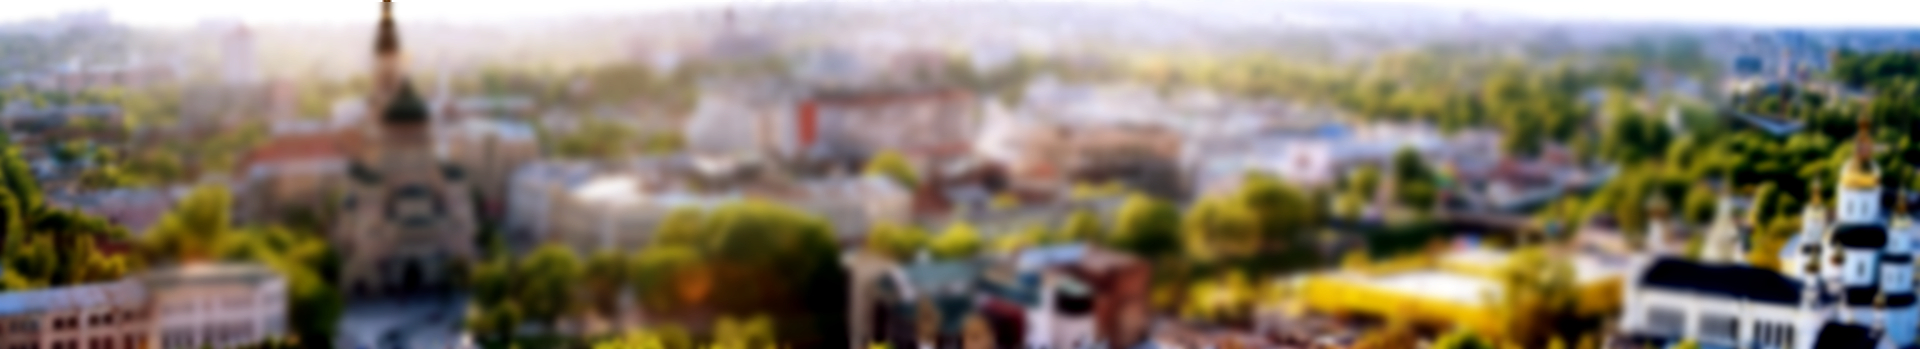
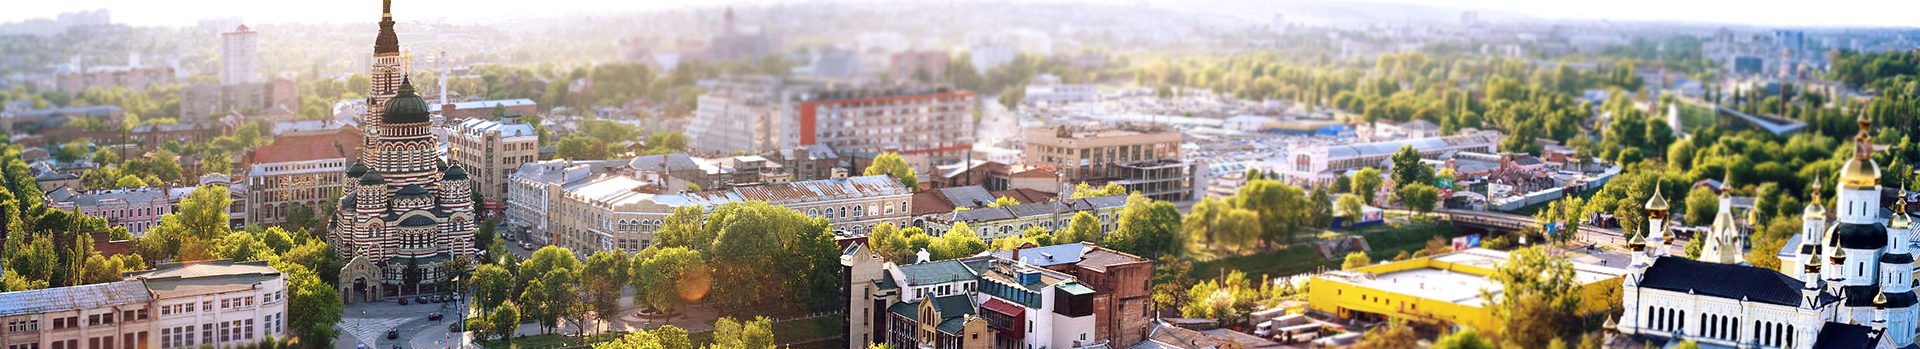
add hero image

diff --git a/css/style.css b/css/style.css
@@ -1,1 +1,1 @@
-*{box-sizing:border-box}body{background-color:#fefefe;font-family:Roboto;color:#444}.container{margin:auto;}@media only screen and (min-width:1200px){.container{padding:0 2em;width:1127px}}@media only screen and (min-width:992px) and (max-width:1200px){.container{padding:0 1.5em;width:933px}}@media only screen and (min-width:768px) and (max-width:991px){.container{padding:0 1em;width:723px}}@media only screen and (max-width:768px){.container{padding:0 1em;width:100%}}.menu-item.current-menu-item > a:after{background-color:#2185d0;width:100%}.menu{width:160px;list-style:none;padding:0;margin:0;}.menu-item{color:#2185d0;font-weight:400;list-style:none;letter-spacing:1px;text-align:right;position:relative;}.menu-item a{position:relative;padding:13px 0;color:inherit;text-decoration:none;display:block;font-size:14px;}.menu-item a:after{content:'';display:block;position:absolute;right:0;bottom:0;background-color:#a2cff0;width:30px;height:1px;transition:width 300ms ease-in-out,color 300ms ease-in-out}.menu-item a:hover:after{width:100%}.menu .sub-menu{z-index:1;display:none;width:200px;left:160px;padding:0 20px;top:0;position:absolute;list-style:none;margin:0;border-top-right-radius:5px;border-bottom-right-radius:5px;background-color:#fefefe;}.menu .sub-menu--upward{bottom:0;top:auto}.sub-menu .menu-item{text-align:left;border-left:none;}.sub-menu .menu-item-link{padding-left:20px;}.sub-menu .menu-item-link:after{display:none}.menu-item:hover > .sub-menu{display:block}.news{margin:0 30px;}.news-item{display:-webkit-box;display:-ms-flexbox;display:flex;cursor:pointer;text-decoration:none;color:inherit;margin-bottom:40px}.news-item:hover .news-header{color:#2185d0}.news-picture{width:200px;margin-right:20px;}.news-picture img{max-height:200px;max-width:200px}.news-header{margin:0 0 5px 0;line-height:1.3em;transition:color 250ms ease-in-out;font-size:20px}.news-excerpt{font-size:15px;line-height:1.3em;font-family:Roboto Slab}.news-date{font-size:12px;margin-top:5px;color:#2185d0}.post{padding:10px 25px;}.post-footer{border-top:1px solid #eee;margin-top:25px;padding:20px 0;text-align:right;color:#2185d0;font-size:14px}.post-header{text-align:center}.search-container{position:fixed;top:0;bottom:0;left:0;right:0;cursor:pointer;background-color:rgba(0,0,0,0.7);display:-webkit-box;display:-ms-flexbox;display:flex;-webkit-box-pack:center;-ms-flex-pack:center;justify-content:center;-webkit-box-align:center;-ms-flex-align:center;align-items:center;z-index:201;}.search-container>div{margin-top:-100px;max-width:760px;}@media only screen and (max-width:1000px){.search-container>div{max-width:90%}}.search-container *{cursor:auto}.search-container input[type="button"]{cursor:pointer}.gsc-control-cse .gsc-table-result{font-family:inherit}.gsc-control-cse .gsc-input-box{height:inherit}table.gsc-search-box td{vertical-align:inherit !important}input.gsc-input,.gsc-input-box,.gsc-input-box-hover,.gsc-input-box-focus,.gsc-search-button input.gsc-search-button-v2{box-sizing:content-box;line-height:normal;margin-top:0}input.gsc-input{height:2rem !important}td.gsib_a{padding:0 .5rem !important}td.gsc-search-button{position:relative}input.gsc-search-button-v2{height:1.3rem !important;width:1rem !important;padding:.7rem 2.5rem !important;margin-bottom:-.4rem}.gsc-input-box{height:2.5rem !important}.gsst_b{height:2.5rem !important;}.gsst_b .gsst_a{height:100% !important;display:-webkit-box;display:-ms-flexbox;display:flex;-webkit-box-align:center;-ms-flex-align:center;align-items:center;-webkit-box-pack:center;-ms-flex-pack:center;justify-content:center;padding-top:0}.hero{padding:50px 0;}.hero .container{display:-webkit-box;display:-ms-flexbox;display:flex;height:100%;-webkit-box-align:center;-ms-flex-align:center;align-items:center;-webkit-box-pack:justify;-ms-flex-pack:justify;justify-content:space-between}.hero-crest{height:190px;width:150px;background:url("../img/crest.png") center no-repeat;background-size:100%}.hero-text-sign,.hero-text-name{text-align:center;color:#2185d0}.hero-text-sign{font-size:45px;line-height:35px;letter-spacing:1px;font-family:Roboto Slab;font-weight:400;line-height:50px}.hero-text-name{margin-top:20px;line-height:25px;font-size:15px;font-weight:400}.hero-search{border:1px solid #2185d0;background-color:rgba(255,255,255,0.7);border-radius:4px;display:-webkit-box;display:-ms-flexbox;display:flex;-webkit-box-align:center;-ms-flex-align:center;align-items:center;padding:5px 10px;cursor:pointer;-webkit-user-select:none;-moz-user-select:none;-ms-user-select:none;user-select:none;}.hero-search-text{margin-right:10px;color:#2185d0}.hero-search-icon{color:#2185d0}.page .container{display:-webkit-box;display:-ms-flexbox;display:flex;-webkit-box-align:start;-ms-flex-align:start;align-items:flex-start}.page-content{-webkit-box-flex:1;-ms-flex:1;flex:1}.page-header{font-weight:500;font-family:Roboto;margin-top:0;color:#2185d0;letter-spacing:1px;font-size:20px;text-align:center;margin-bottom:20px}.sidebar{display:-webkit-box;display:-ms-flexbox;display:flex;-webkit-box-orient:vertical;-webkit-box-direction:normal;-ms-flex-direction:column;flex-direction:column;-webkit-box-align:center;-ms-flex-align:center;align-items:center;width:280px;}.sidebar-item{padding:10px 15px;cursor:pointer;border-bottom:1px solid #2185d0;width:100%;transition:background-color 300ms;padding-top:15px;padding-bottom:15px;}.sidebar-item a{display:-webkit-box;display:-ms-flexbox;display:flex;-webkit-box-align:center;-ms-flex-align:center;align-items:center;width:100%;text-decoration:none;color:inherit}.sidebar-item:last-child{border-bottom:0}.sidebar-item:hover{background-color:#f6fafe}.sidebar-item-name{color:inherit;font-size:15px;margin-left:10px;line-height:25px;width:170px;-webkit-box-flex:1;-ms-flex:1;flex:1}.sidebar-item-icon{background-position:center;background-repeat:no-repeat;background-size:contain;height:60px;width:60px;}.sidebar-item-icon--alone{width:100%}.slider{margin-bottom:50px;}.slider .owl-stage{cursor:-webkit-grab;cursor:grab}.slider-item{width:100%;background-position:top center;background-size:cover;background-repeat:no-repeat;-webkit-backface-visibility:hidden;-webkit-transform:translateZ(0) scale(1,1);height:350px;}@media only screen and (max-width:1200px){.slider-item{height:300px}}
+*{box-sizing:border-box}body{background-color:#fefefe;font-family:Roboto;color:#444}.container{margin:auto;}@media only screen and (min-width:1200px){.container{padding:0 2em;width:1127px}}@media only screen and (min-width:992px) and (max-width:1200px){.container{padding:0 1.5em;width:933px}}@media only screen and (min-width:768px) and (max-width:991px){.container{padding:0 1em;width:723px}}@media only screen and (max-width:768px){.container{padding:0 1em;width:100%}}.menu-item.current-menu-item > a:after{background-color:#2185d0;width:100%}.menu{width:160px;list-style:none;padding:0;margin:0;}.menu-item{color:#2185d0;font-weight:400;list-style:none;letter-spacing:1px;text-align:right;position:relative;}.menu-item a{position:relative;padding:13px 0;color:inherit;text-decoration:none;display:block;font-size:14px;}.menu-item a:after{content:'';display:block;position:absolute;right:0;bottom:0;background-color:#a2cff0;width:30px;height:1px;transition:width 300ms ease-in-out,color 300ms ease-in-out}.menu-item a:hover:after{width:100%}.menu .sub-menu{z-index:1;display:none;width:200px;left:160px;padding:0 20px;top:0;position:absolute;list-style:none;margin:0;border-top-right-radius:5px;border-bottom-right-radius:5px;background-color:#fefefe;}.menu .sub-menu--upward{bottom:0;top:auto}.sub-menu .menu-item{text-align:left;border-left:none;}.sub-menu .menu-item-link{padding-left:20px;}.sub-menu .menu-item-link:after{display:none}.menu-item:hover > .sub-menu{display:block}.news{margin:0 30px;}.news-item{display:-webkit-box;display:-ms-flexbox;display:flex;cursor:pointer;text-decoration:none;color:inherit;margin-bottom:40px}.news-item:hover .news-header{color:#2185d0}.news-picture{width:200px;margin-right:20px;}.news-picture img{max-height:200px;max-width:200px}.news-header{margin:0 0 5px 0;line-height:1.3em;transition:color 250ms ease-in-out;font-size:20px}.news-excerpt{font-size:15px;line-height:1.3em;font-family:Roboto Slab}.news-date{font-size:12px;margin-top:5px;color:#2185d0}.post{padding:10px 25px;}.post-footer{border-top:1px solid #eee;margin-top:25px;padding:20px 0;text-align:right;color:#2185d0;font-size:14px}.post-header{text-align:center}.search-container{position:fixed;top:0;bottom:0;left:0;right:0;cursor:pointer;background-color:rgba(0,0,0,0.7);display:-webkit-box;display:-ms-flexbox;display:flex;-webkit-box-pack:center;-ms-flex-pack:center;justify-content:center;-webkit-box-align:center;-ms-flex-align:center;align-items:center;z-index:201;}.search-container>div{margin-top:-100px;max-width:760px;}@media only screen and (max-width:1000px){.search-container>div{max-width:90%}}.search-container *{cursor:auto}.search-container input[type="button"]{cursor:pointer}.gsc-control-cse .gsc-table-result{font-family:inherit}.gsc-control-cse .gsc-input-box{height:inherit}table.gsc-search-box td{vertical-align:inherit !important}input.gsc-input,.gsc-input-box,.gsc-input-box-hover,.gsc-input-box-focus,.gsc-search-button input.gsc-search-button-v2{box-sizing:content-box;line-height:normal;margin-top:0}input.gsc-input{height:2rem !important}td.gsib_a{padding:0 .5rem !important}td.gsc-search-button{position:relative}input.gsc-search-button-v2{height:1.3rem !important;width:1rem !important;padding:.7rem 2.5rem !important;margin-bottom:-.4rem}.gsc-input-box{height:2.5rem !important}.gsst_b{height:2.5rem !important;}.gsst_b .gsst_a{height:100% !important;display:-webkit-box;display:-ms-flexbox;display:flex;-webkit-box-align:center;-ms-flex-align:center;align-items:center;-webkit-box-pack:center;-ms-flex-pack:center;justify-content:center;padding-top:0}.hero{padding:50px 0;margin-bottom:50px;}.hero .container{display:-webkit-box;display:-ms-flexbox;display:flex;height:100%;-webkit-box-align:center;-ms-flex-align:center;align-items:center;-webkit-box-pack:justify;-ms-flex-pack:justify;justify-content:space-between}.hero-crest{height:190px;width:150px;background:url("../img/crest.png") center no-repeat;background-size:100%}.hero-text-sign,.hero-text-name{background-color:rgba(255,255,255,0.8);border-radius:15px;padding:10px;text-align:center;color:#2185d0}.hero-text-sign{font-size:45px;line-height:35px;letter-spacing:1px;font-family:Roboto Slab;font-weight:400;line-height:50px}.hero-text-name{max-width:400px;margin:20px auto 0;line-height:25px;font-size:16px;letter-spacing:1px;font-weight:400}.hero-search{border:1px solid #2185d0;background-color:rgba(255,255,255,0.7);border-radius:4px;display:-webkit-box;display:-ms-flexbox;display:flex;-webkit-box-align:center;-ms-flex-align:center;align-items:center;padding:5px 10px;cursor:pointer;-webkit-user-select:none;-moz-user-select:none;-ms-user-select:none;user-select:none;}.hero-search-text{margin-right:10px;color:#2185d0}.hero-search-icon{color:#2185d0}.page .container{display:-webkit-box;display:-ms-flexbox;display:flex;-webkit-box-align:start;-ms-flex-align:start;align-items:flex-start}.page-content{-webkit-box-flex:1;-ms-flex:1;flex:1}.page-header{font-weight:500;font-family:Roboto;margin-top:0;color:#2185d0;letter-spacing:1px;font-size:20px;text-align:center;margin-bottom:20px}.sidebar{display:-webkit-box;display:-ms-flexbox;display:flex;-webkit-box-orient:vertical;-webkit-box-direction:normal;-ms-flex-direction:column;flex-direction:column;-webkit-box-align:center;-ms-flex-align:center;align-items:center;width:280px;}.sidebar-item{padding:10px 15px;cursor:pointer;border-bottom:1px solid #2185d0;width:100%;transition:background-color 300ms;padding-top:15px;padding-bottom:15px;}.sidebar-item a{display:-webkit-box;display:-ms-flexbox;display:flex;-webkit-box-align:center;-ms-flex-align:center;align-items:center;width:100%;text-decoration:none;color:inherit}.sidebar-item:last-child{border-bottom:0}.sidebar-item:hover{background-color:#f6fafe}.sidebar-item-name{color:inherit;font-size:15px;margin-left:10px;line-height:25px;width:170px;-webkit-box-flex:1;-ms-flex:1;flex:1}.sidebar-item-icon{background-position:center;background-repeat:no-repeat;background-size:contain;height:60px;width:60px;}.sidebar-item-icon--alone{width:100%}.slider{margin-bottom:50px;}.slider .owl-stage{cursor:-webkit-grab;cursor:grab}.slider-item{width:100%;background-position:top center;background-size:cover;background-repeat:no-repeat;-webkit-backface-visibility:hidden;-webkit-transform:translateZ(0) scale(1,1);height:350px;}@media only screen and (max-width:1200px){.slider-item{height:300px}}

diff --git a/header.php b/header.php
@@ -34,7 +34,8 @@
     <link href="https://fonts.googleapis.com/css?family=Roboto+Slab:100,300,400&amp;subset=cyrillic" rel="stylesheet">
 </head>
 <body>
-    <div class="hero">
+    <div class="hero" 
+        style="background-image:url(<?=get_template_directory_uri() . '/img/hero.jpg'?>);">
         <div class="container">
             <div class="hero-crest"></div>
             <div class="hero-text">
